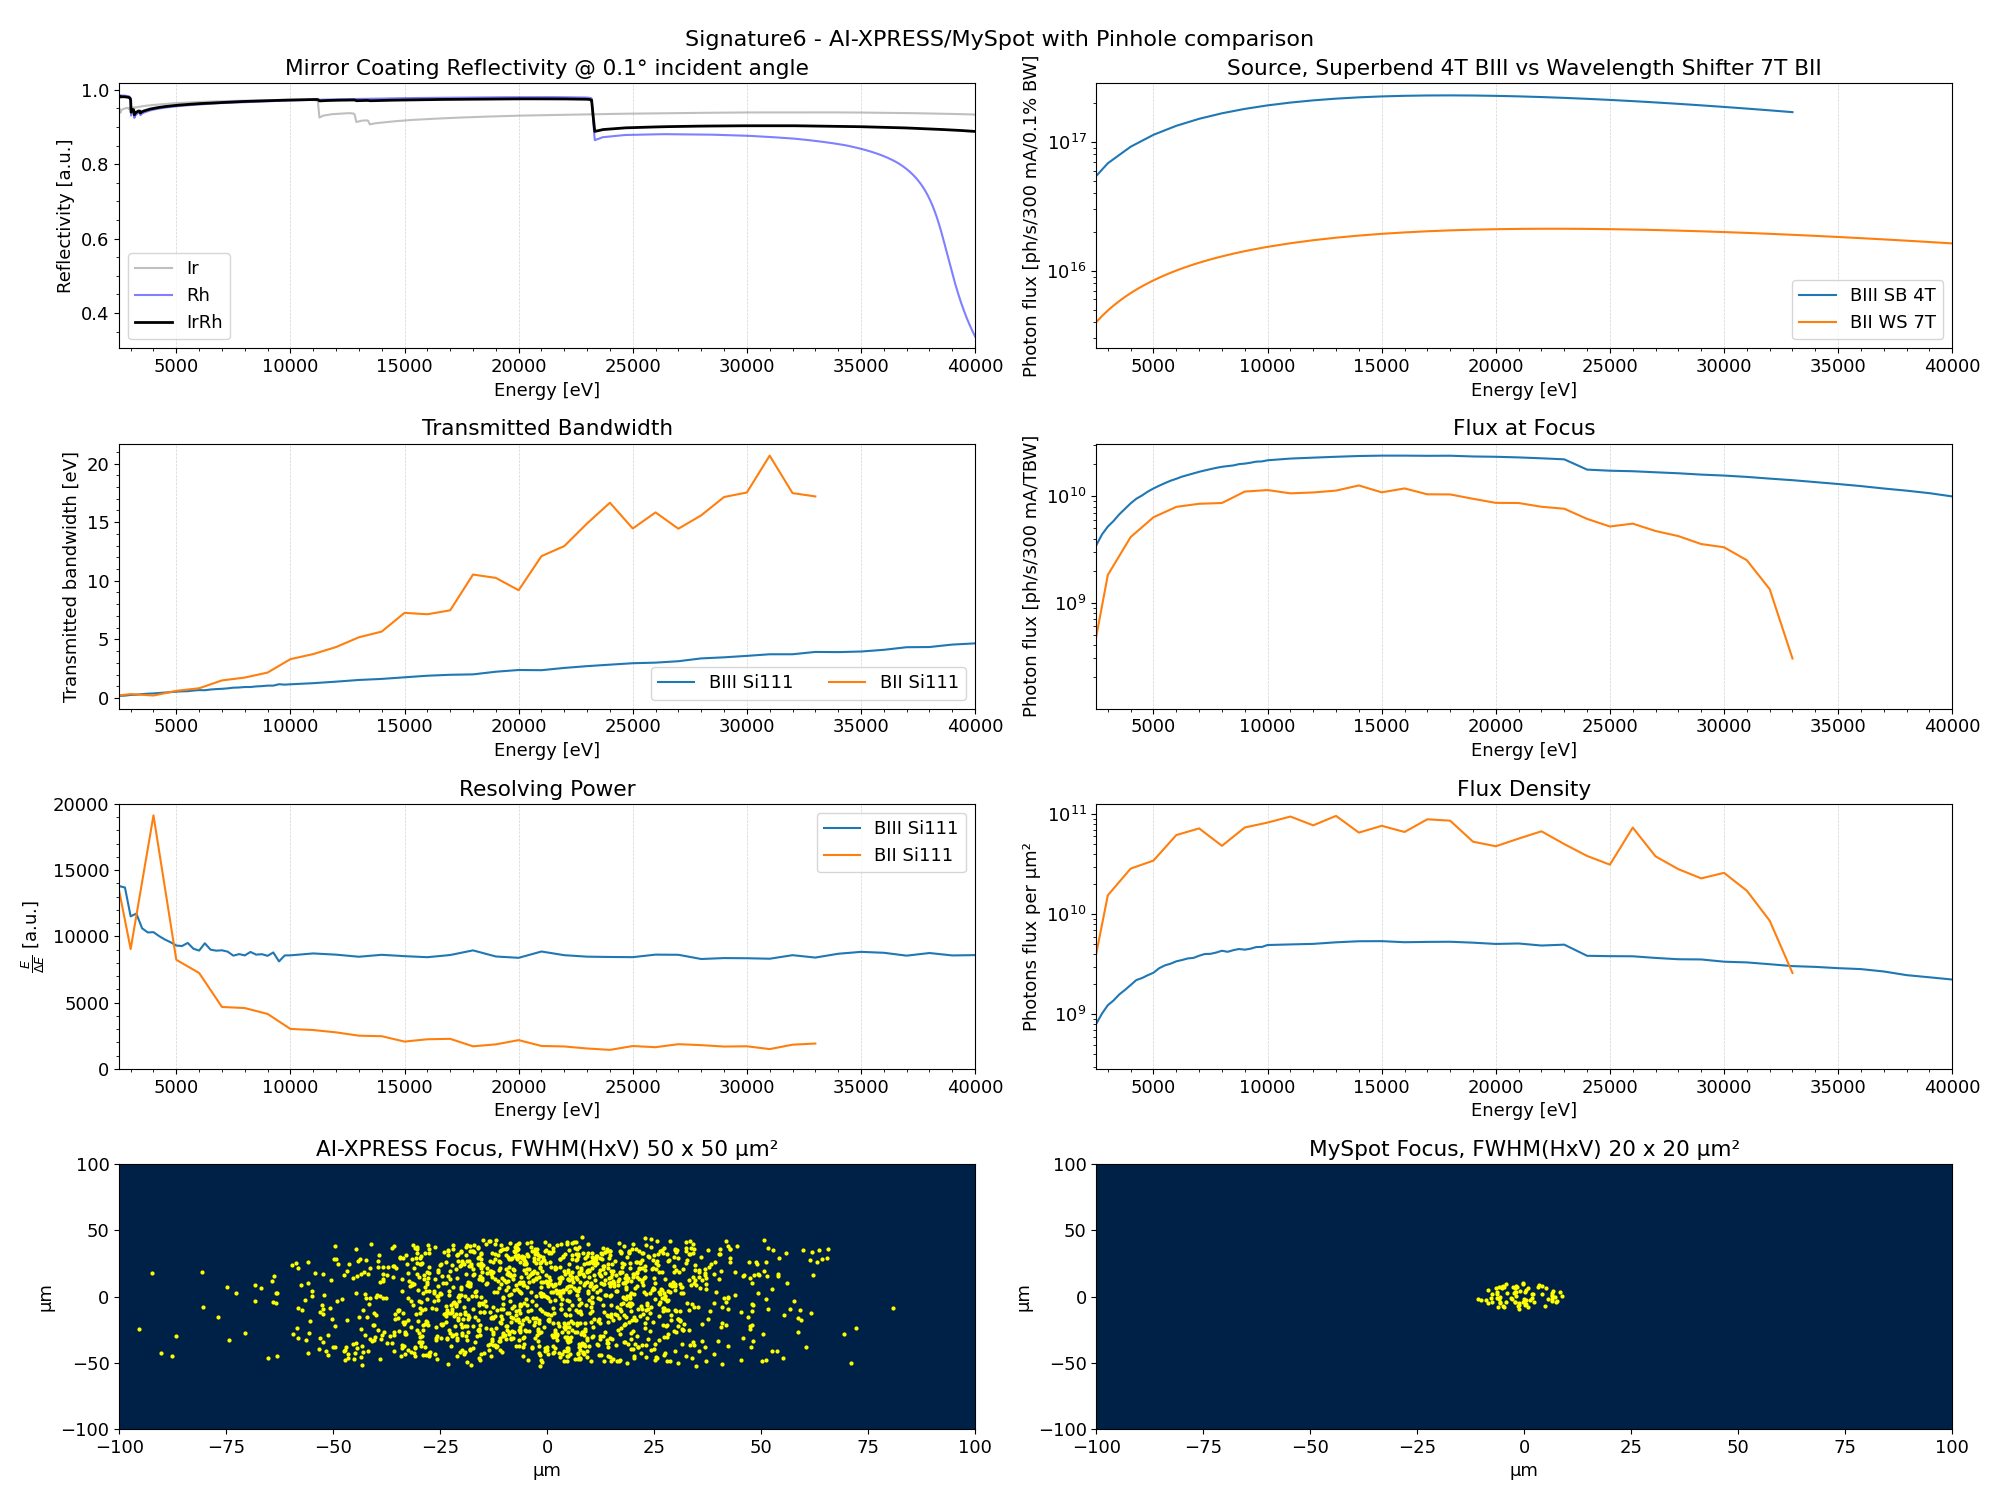
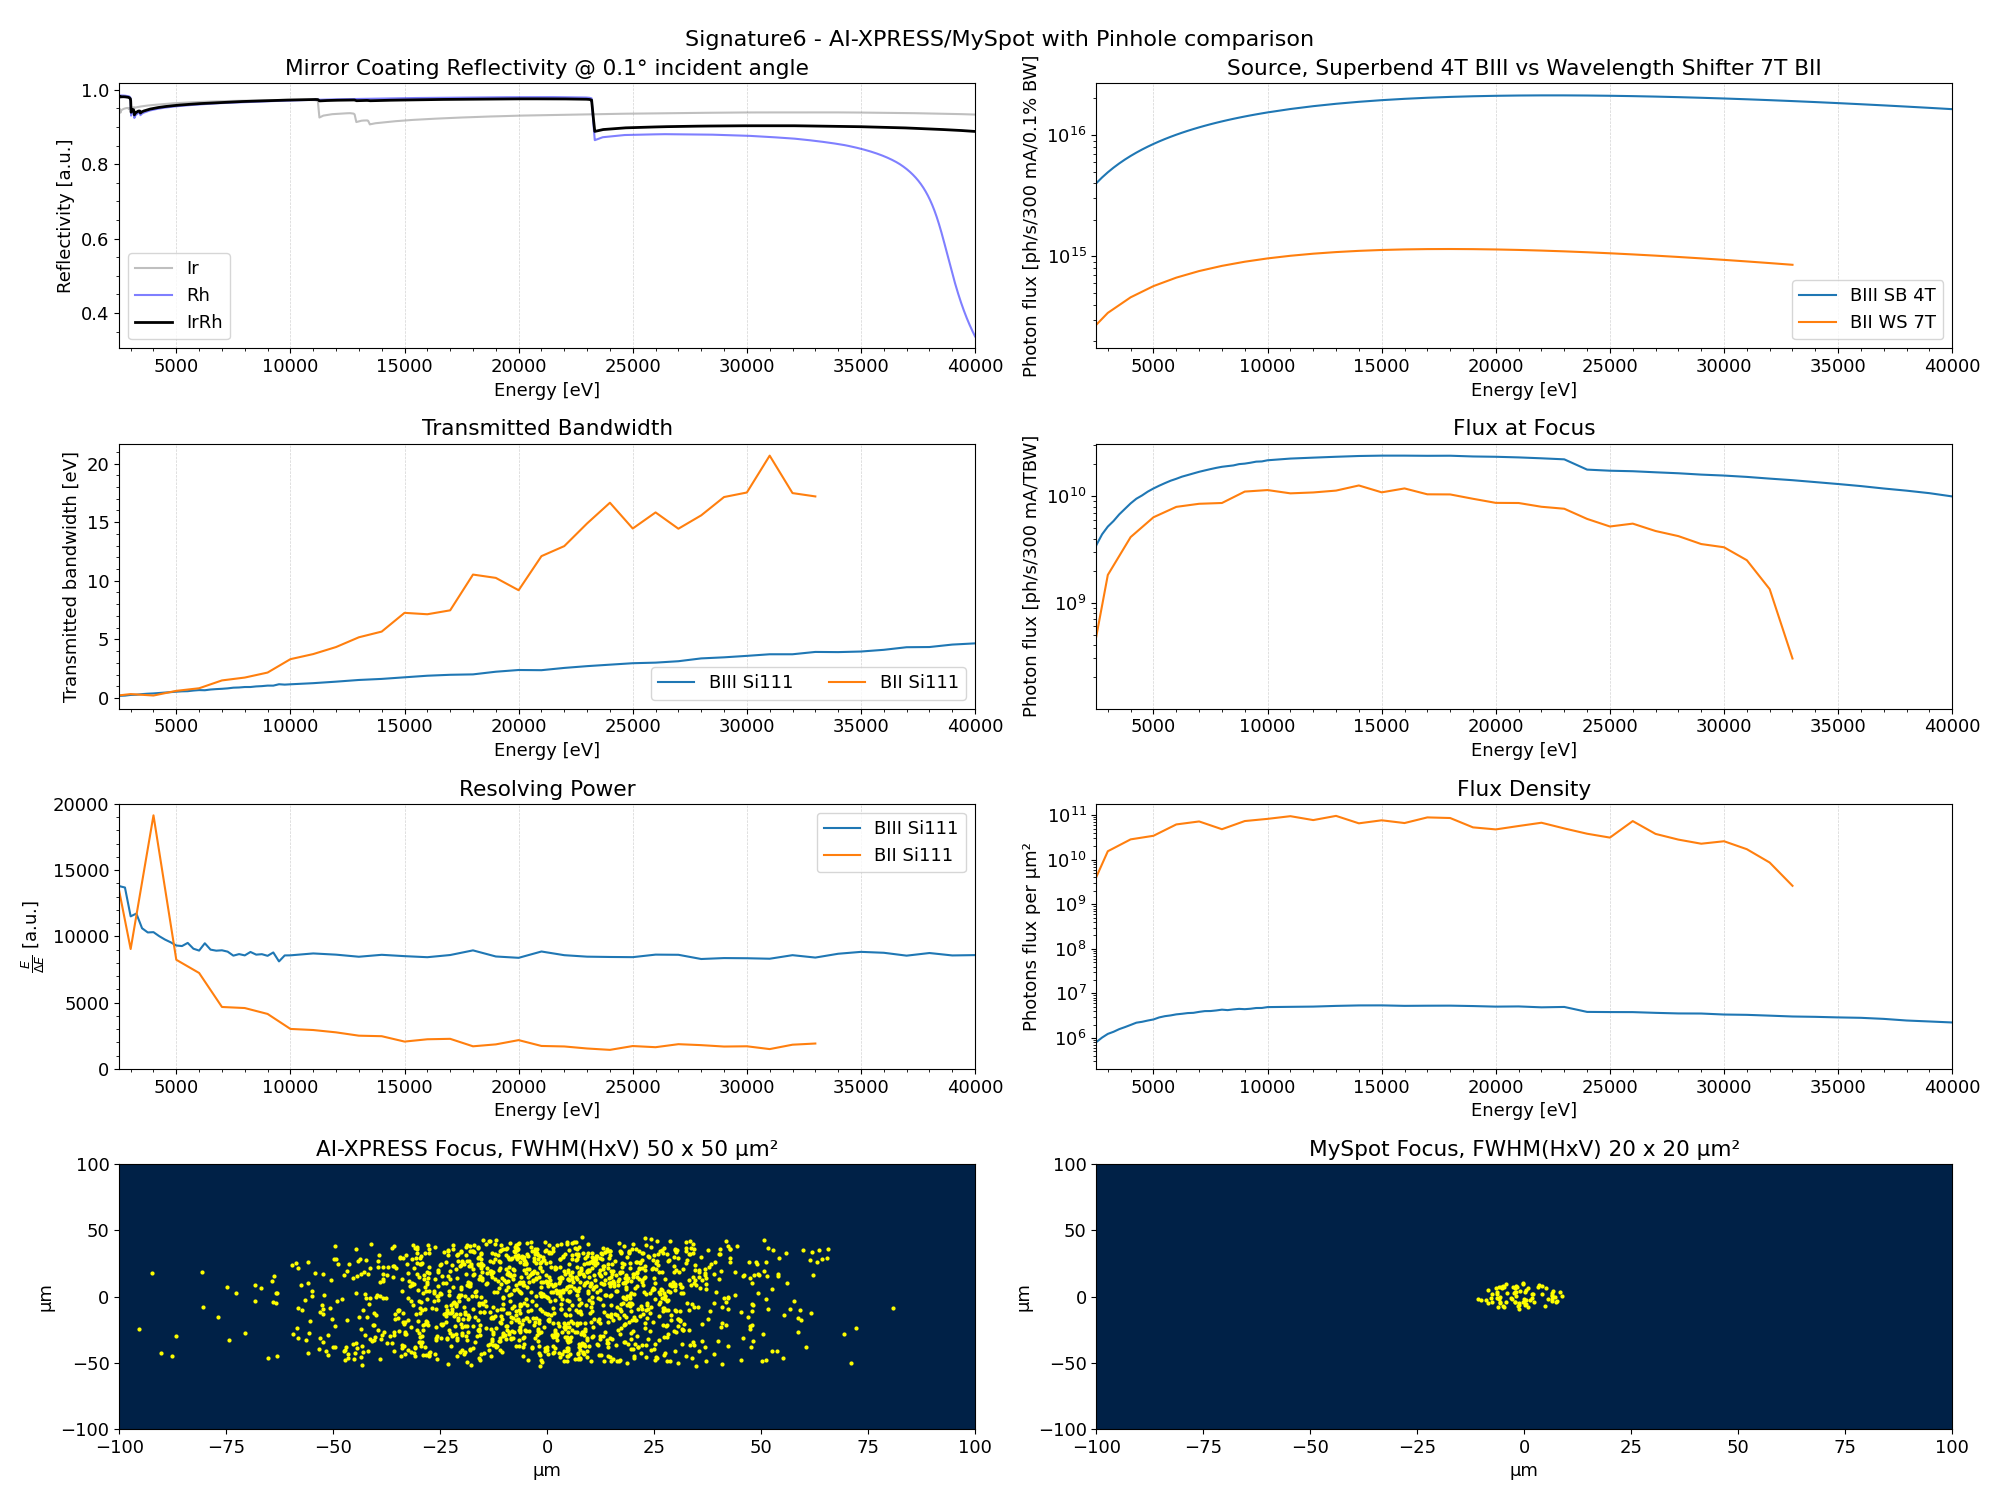
sim simulation_Si111_Pinhole

diff --git a/beamlines/Signature6-AI-XPRESS/simulations/comparison_with_BII/eval_both_Pin.py b/beamlines/Signature6-AI-XPRESS/simulations/comparison_with_BII/eval_both_Pin.py
@@ -19,6 +19,8 @@ mov_av = p.moving_average
 # LOAD IN DATA
 
 current_factor = 3
+mrad_scale = 200
+
 # Read CSV-File of the Beamline Simulation
 BL_file_path = os.path.join('..','characterization','RAYPy_Simulation_AI-XPRESS_Si111', 'DetectorAtFocus_RawRaysOutgoing.csv')
 BL_df_si111 = pd.read_csv(BL_file_path)
@@ -27,7 +29,7 @@ BL_df_si111[f'PhotonFlux'] = BL_df_si111[f'PhotonFlux']*current_factor # for 300
 
 myspot_Si111_path = os.path.join('RAYPy_Simulation_MySpot_Si111_noM2', 'DetectorAtFocus_RawRaysOutgoing.csv')
 myspot_Si111 = pd.read_csv(myspot_Si111_path)
-myspot_Si111[f'SourcePhotonFlux'] = myspot_Si111[f'SourcePhotonFlux']*current_factor # for 300 mA
+myspot_Si111[f'SourcePhotonFlux'] = myspot_Si111[f'SourcePhotonFlux']*current_factor/mrad_scale # for 300 mA
 myspot_Si111[f'PhotonFlux'] = myspot_Si111[f'PhotonFlux']*current_factor # for 300 mA
 
 ##############################################################
@@ -74,12 +76,14 @@ ax1.grid(which='major', axis='x', linestyle='--', linewidth=0.5, color='lightgre
 ax2 = axs[0, 1]
 
 
-ax2.plot(myspot_Si111[f'PhotonEnergy'],
-            myspot_Si111[f'SourcePhotonFlux']*myspot_Si111['PhotonEnergy'],
-            label='BIII SB 4T')
 ax2.plot(BL_df_si111[f'PhotonEnergy'],
             BL_df_si111[f'SourcePhotonFlux']*BL_df_si111['PhotonEnergy'],
+            label='BIII SB 4T')
+
+ax2.plot(myspot_Si111[f'PhotonEnergy'],
+            myspot_Si111[f'SourcePhotonFlux']*myspot_Si111['PhotonEnergy'],
             label='BII WS 7T')
+
 
     
 ax2.set_title('Source, Superbend 4T BIII vs Wavelength Shifter 7T BII')
@@ -168,13 +172,14 @@ ax6 = axs[2, 1]
 
 # BIII Si111
 foc_area = (BL_df_si111['VerticalFocusFWHM']*BL_df_si111['HorizontalFocusFWHM'])*1000  # in µm²
-
+print(f'foc BIII area: {foc_area.mean()} µm²')
 ax6.plot(BL_df_si111['PhotonEnergy'],
              BL_df_si111[f'PhotonFlux']/foc_area,
              label=f'BIII Si111')
     
 # BIII Si111
 foc_area = (myspot_Si111['VerticalFocusFWHM']*myspot_Si111['HorizontalFocusFWHM'])*1000  # in µm²
+print(f'foc BII area: {foc_area.mean()} µm²')
 
 ax6.plot(myspot_Si111['PhotonEnergy'],
              myspot_Si111[f'PhotonFlux']/foc_area,

diff --git a/beamlines/Signature6-AI-XPRESS/simulations/comparison_with_BII/eval_both_noPin.py b/beamlines/Signature6-AI-XPRESS/simulations/comparison_with_BII/eval_both_noPin.py
@@ -19,6 +19,7 @@ mov_av = p.moving_average
 # LOAD IN DATA
 
 current_factor = 3
+mrad_scale = 200
 # Read CSV-File of the Beamline Simulation
 BL_file_path = os.path.join('..','characterization','RAYPy_Simulation_AI-XPRESS_Si111', 'DetectorAtFocus_RawRaysOutgoing.csv')
 BL_df_si111 = pd.read_csv(BL_file_path)
@@ -27,7 +28,7 @@ BL_df_si111[f'PhotonFlux'] = BL_df_si111[f'PhotonFlux']*current_factor # for 300
 
 myspot_Si111_path = os.path.join('RAYPy_Simulation_MySpot_Si111_noM2_no_pinhole', 'DetectorAtFocus_RawRaysOutgoing.csv')
 myspot_Si111 = pd.read_csv(myspot_Si111_path)
-myspot_Si111[f'SourcePhotonFlux'] = myspot_Si111[f'SourcePhotonFlux']*current_factor # for 300 mA
+myspot_Si111[f'SourcePhotonFlux'] = myspot_Si111[f'SourcePhotonFlux']*current_factor/mrad_scale # for 300 mA
 myspot_Si111[f'PhotonFlux'] = myspot_Si111[f'PhotonFlux']*current_factor # for 300 mA
 
 ##############################################################
@@ -74,12 +75,14 @@ ax1.grid(which='major', axis='x', linestyle='--', linewidth=0.5, color='lightgre
 ax2 = axs[0, 1]
 
 
-ax2.plot(myspot_Si111[f'PhotonEnergy'],
-            myspot_Si111[f'SourcePhotonFlux'],
-            label='BIII SB 4T')
 ax2.plot(BL_df_si111[f'PhotonEnergy'],
             BL_df_si111[f'SourcePhotonFlux'],
+            label='BIII SB 4T')
+
+ax2.plot(myspot_Si111[f'PhotonEnergy'],
+            myspot_Si111[f'SourcePhotonFlux'],
             label='BII WS 7T')
+
 
     
 ax2.set_title('Source, Superbend 4T BIII vs Wavelength Shifter 7T BII')
